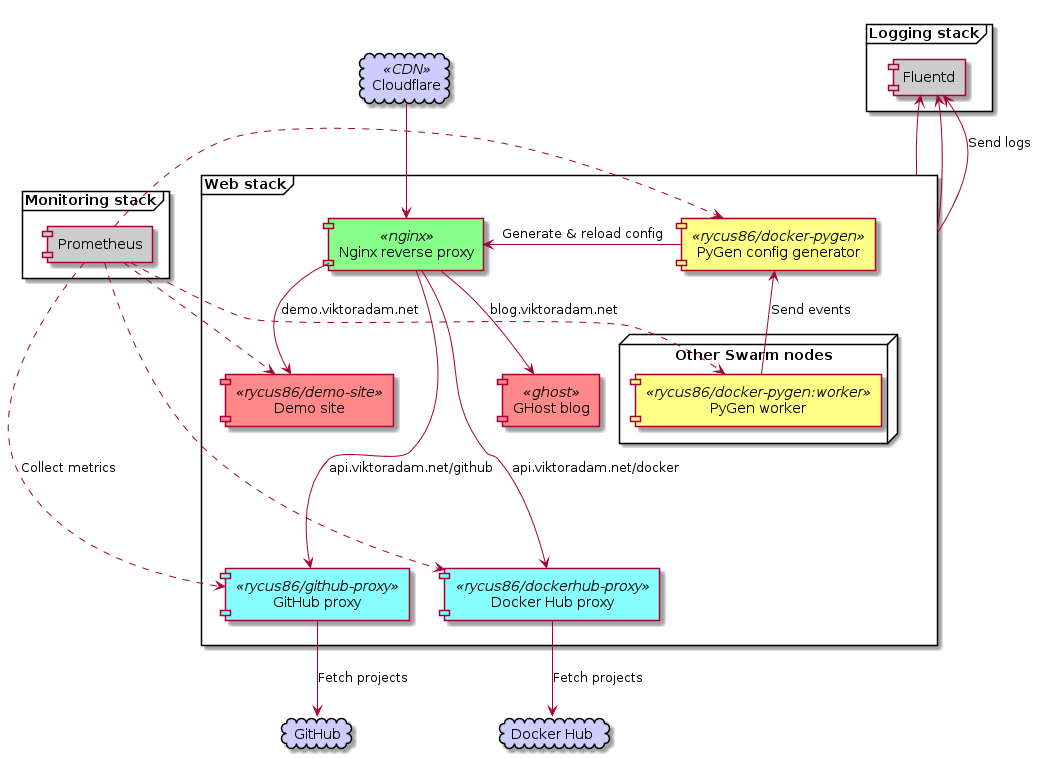
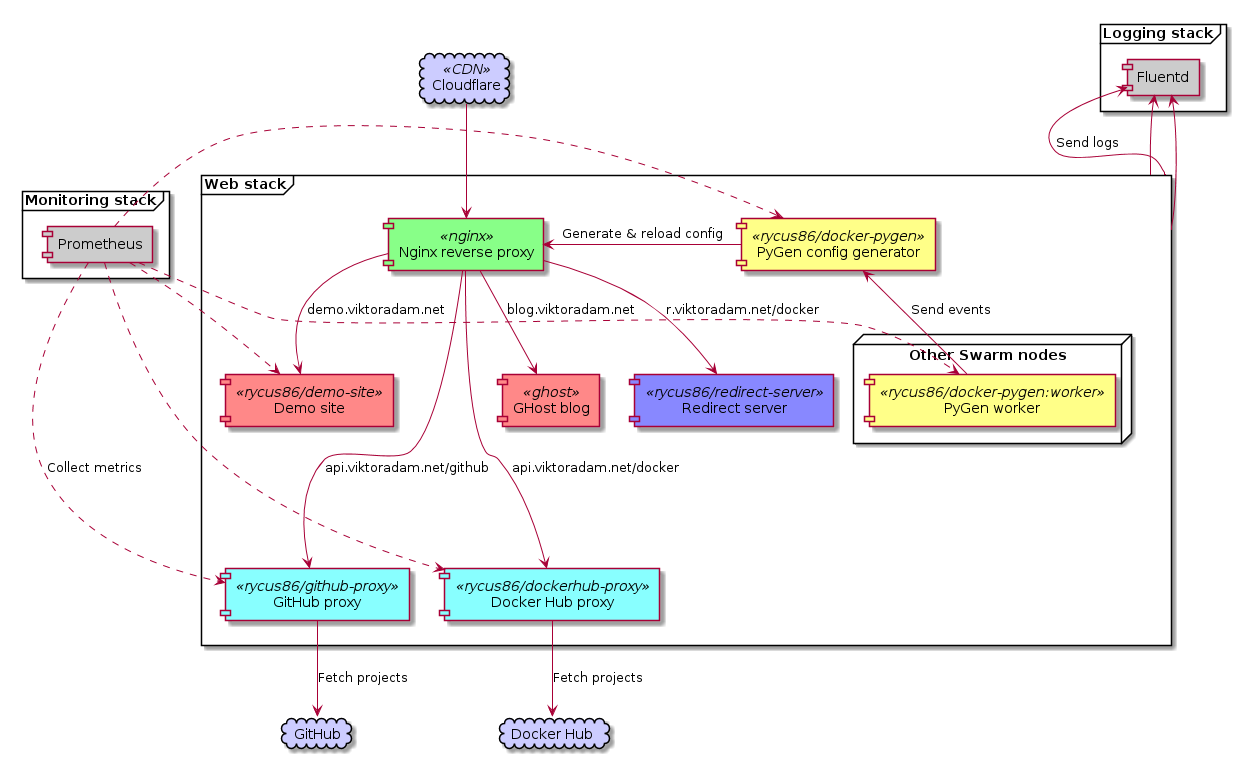
README update

diff --git a/README.md b/README.md
@@ -5,6 +5,7 @@ Web stack and its services for my Home Lab
 - [Demo site](https://github.com/rycus86/demo-site)
 - [GitHub proxy](https://github.com/rycus86/github-proxy)
 - [Docker Hub proxy](https://github.com/rycus86/dockerhub-proxy)
+- [Redirect server](https://github.com/rycus86/redirect-server)
 - [PyGen configuration generator](https://github.com/rycus86/docker-pygen)
 
 ## Components
